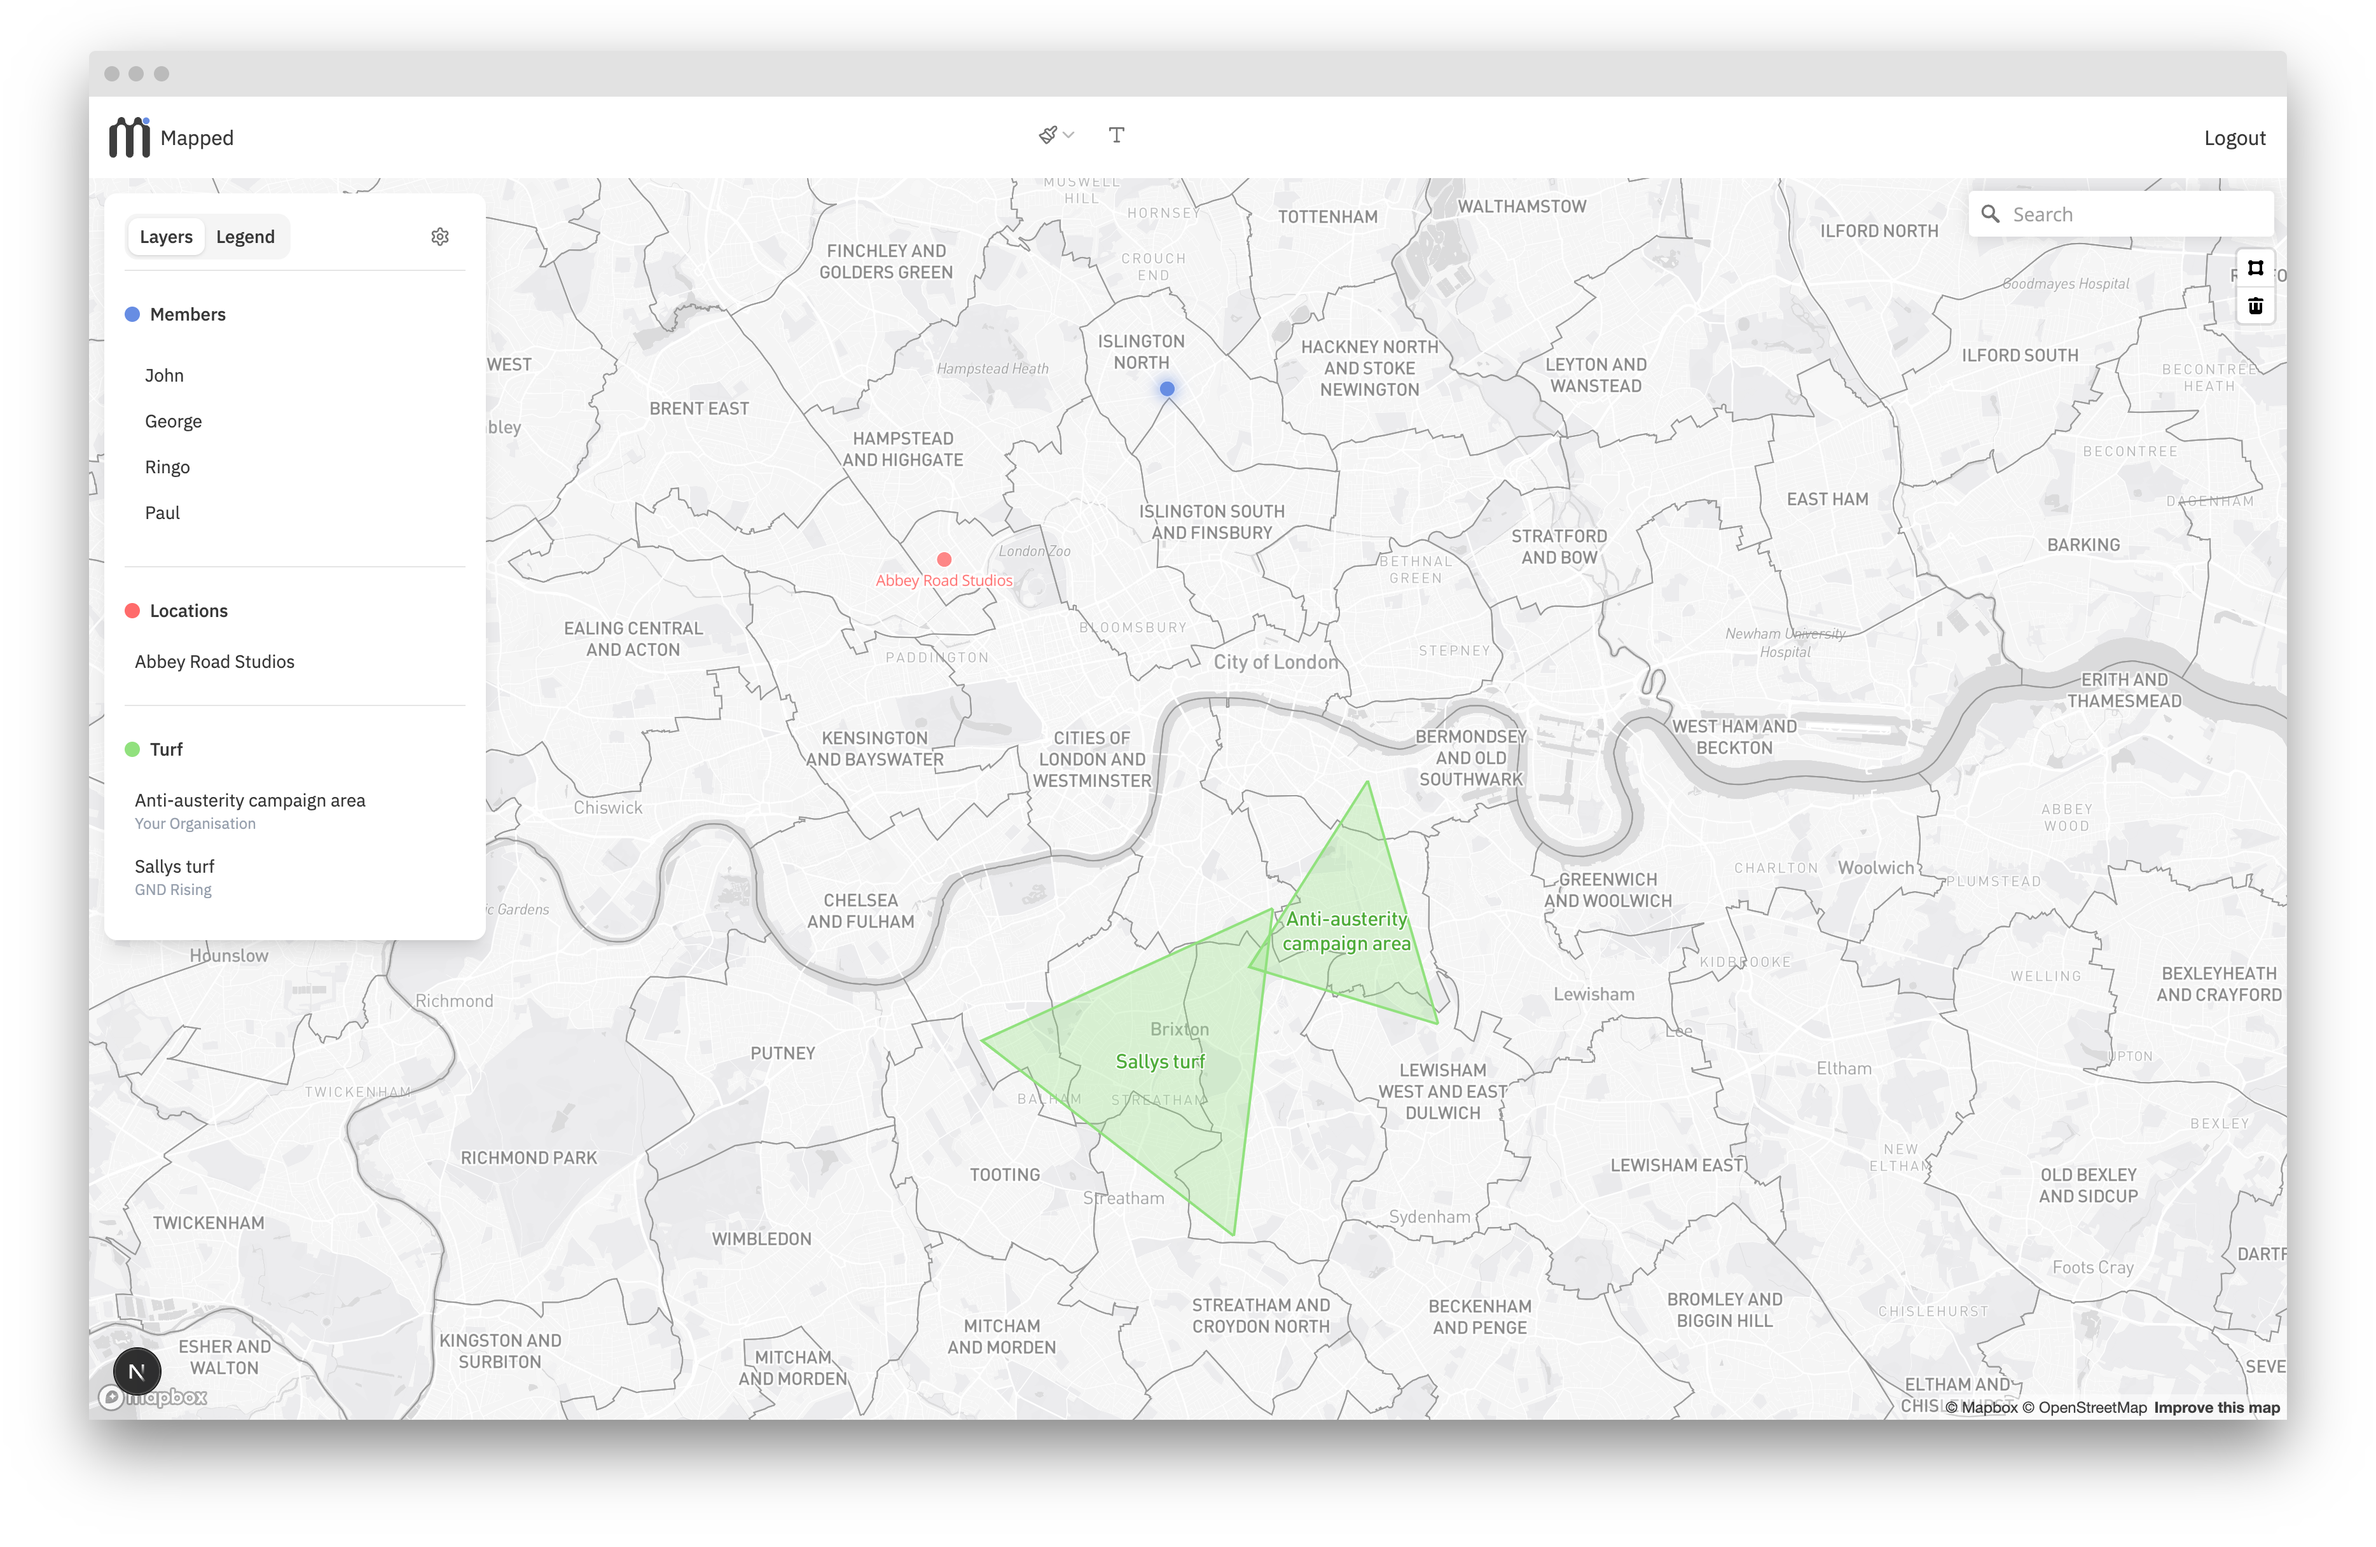
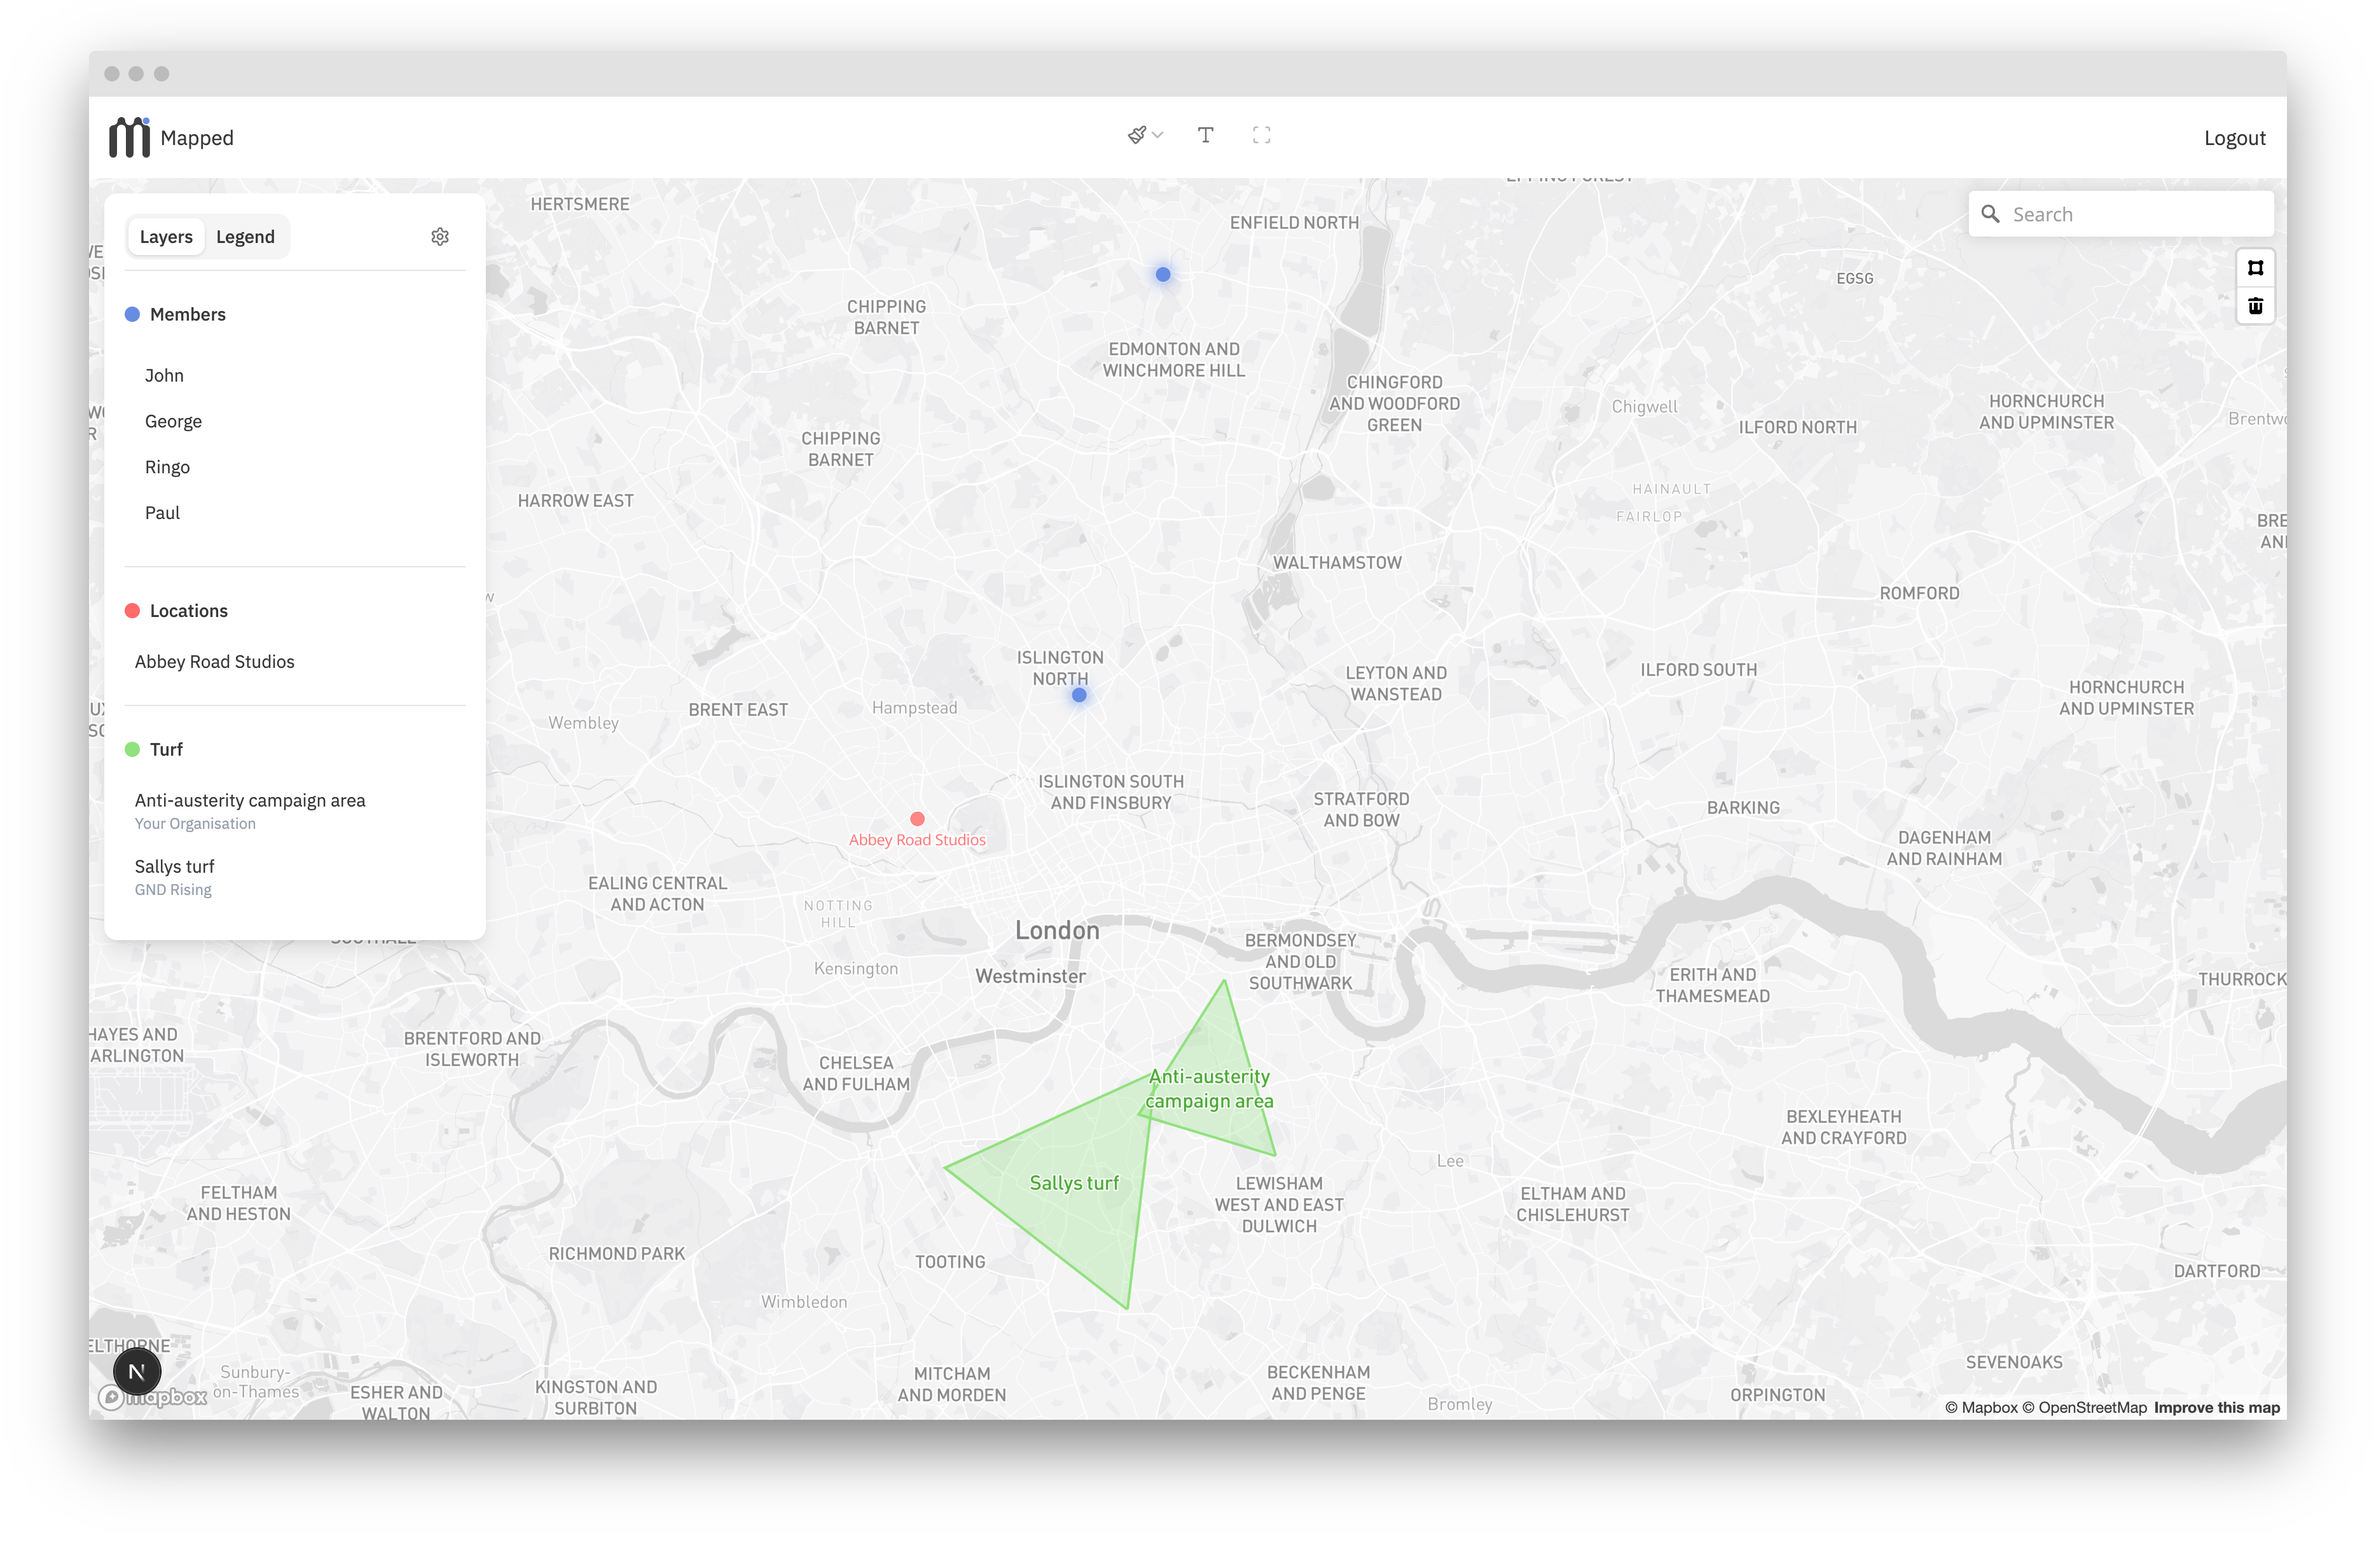
nav

diff --git a/src/app/(private)/map/components/Choropleth.tsx b/src/app/(private)/map/components/Choropleth.tsx
@@ -37,46 +37,50 @@ export default function Choropleth({
       />
 
       {/* Line Layer */}
-      <Layer
-        id={`${sourceId}-line`}
-        source={sourceId}
-        source-layer={layerId}
-        type="line"
-        paint={{
-          "line-color": "#999",
-          "line-width": 1,
-        }}
-      />
+      {mapConfig.showBoundaryOutline && (
+        <Layer
+          id={`${sourceId}-line`}
+          source={sourceId}
+          source-layer={layerId}
+          type="line"
+          paint={{
+            "line-color": "#999",
+            "line-width": 1,
+          }}
+        />
+      )}
 
       {/* Symbol Layer (Labels) */}
       {mapConfig.showLabels && (
-      <Layer
-        id={`${sourceId}-labels`}
-        source={sourceId}
-        source-layer={layerId}
-        type="symbol"
-        layout={{
-          "symbol-placement": "point",
-          "text-field": ["get", featureNameProperty],
-          "text-size": 14,
-          "text-anchor": "center",
-          "text-allow-overlap": false,
-          "symbol-spacing": 100,
-          "text-max-width": 8,
-          "text-padding": 30,
-          "text-transform": "uppercase",
-          "text-font": ["DIN Pro Medium", "Arial Unicode MS Bold"],
-        }}
-        paint={{
-          "text-color": mapConfig.mapStyle.textColor,
-          "text-opacity": [
-            "interpolate",
-            ["linear"],
-            ["zoom"],
-            8, 0.8,
-            10, 0.8
-          ],
-          "text-halo-color": mapConfig.mapStyle.textHaloColor,
+        <Layer
+          id={`${sourceId}-labels`}
+          source={sourceId}
+          source-layer={layerId}
+          type="symbol"
+          layout={{
+            "symbol-placement": "point",
+            "text-field": ["get", featureNameProperty],
+            "text-size": 14,
+            "text-anchor": "center",
+            "text-allow-overlap": false,
+            "symbol-spacing": 100,
+            "text-max-width": 8,
+            "text-padding": 30,
+            "text-transform": "uppercase",
+            "text-font": ["DIN Pro Medium", "Arial Unicode MS Bold"],
+          }}
+          paint={{
+            "text-color": mapConfig.mapStyle.textColor,
+            "text-opacity": [
+              "interpolate",
+              ["linear"],
+              ["zoom"],
+              8,
+              0.8,
+              10,
+              0.8,
+            ],
+            "text-halo-color": mapConfig.mapStyle.textHaloColor,
             "text-halo-width": 1.5,
           }}
         />

diff --git a/src/app/(private)/map/components/Controls.tsx b/src/app/(private)/map/components/Controls.tsx
@@ -8,7 +8,6 @@ import {
   AreaSetGroupCode,
 } from "@/app/(private)/map/sources";
 import { MAX_COLUMN_KEY } from "@/constants";
-import styles from "./Controls.module.css";
 import {
   Select,
   SelectContent,
@@ -18,16 +17,7 @@ import {
 } from "@/shadcn/components/ui/select";
 import { Separator } from "@/shadcn/components/ui/separator";
 import { Label } from "@/shadcn/components/ui/label";
-import {
-  CornerDownRight,
-  LandPlot,
-  MapPin,
-  Paintbrush,
-  Pin,
-  SquareStack,
-  Type,
-} from "lucide-react";
-import Legend from "./Legend";
+import { CornerDownRight, LandPlot, SquareStack } from "lucide-react";
 import mapStyles, { mapColors } from "@/app/(private)/map/styles";
 import { MapStyle } from "@/app/(private)/map/styles";
 import { Toggle } from "@/shadcn/components/ui/toggle";
@@ -37,22 +27,14 @@ import {
   TabsList,
   TabsTrigger,
 } from "@/shadcn/components/ui/tabs";
-import SearchHistory from "./dataLists/SearchHistory";
-import { useState } from "react";
+
 import { DrawnPolygon, SearchResult } from "@/types";
 import { MapRef } from "react-map-gl/mapbox";
-import MemberList from "./dataLists/MemberList";
 import { MarkerData } from "@/types";
-import TurfHistory from "./dataLists/TurfHistory";
 import MembersControl from "./control/MembersControl";
 import LocationsControl from "./control/LocationsControl";
 import TurfControl from "./control/TurfControl";
-import {
-  Tooltip,
-  TooltipContent,
-  TooltipProvider,
-  TooltipTrigger,
-} from "@/shadcn/components/ui/tooltip";
+
 import SettingsModal from "./SettingsModal";
 
 export class MapConfig {
@@ -63,6 +45,7 @@ export class MapConfig {
   public markersDataSourceId = "634223d3-bc26-48bd-a3f2-58d2b9c62462";
   public mapStyle: MapStyle = mapStyles["light-v11"];
   public showLabels = true;
+  public showBoundaryOutline = false;
   public showMembers = true;
   public showLocations = true;
   public showTurf = true;

diff --git a/src/app/(private)/map/components/MapStyling.tsx b/src/app/(private)/map/components/MapStyling.tsx
@@ -11,7 +11,7 @@ import {
 import { Toggle } from "@/shadcn/components/ui/toggle";
 import { Tooltip } from "@/shadcn/components/ui/tooltip";
 import mapStyles from "../styles";
-import { Paintbrush, Type } from "lucide-react";
+import { Paintbrush, Scan, Type } from "lucide-react";
 import {
   TooltipContent,
   TooltipProvider,
@@ -37,7 +37,7 @@ export function MapStyleSelector({
   dataSources: DataSourcesQuery["dataSources"];
 }) {
   return (
-    <div className="absolute left-1/2 -top-20 -translate-x-1/2 m-3 p-4 z-10 w-[300px] bg-white ">
+    <div className="absolute left-1/2 -top-20 -translate-x-1/2 m-3 p-4 z-10  bg-white ">
       <div className="flex gap-2 items-center">
         <TooltipProvider>
           <Tooltip>
@@ -86,6 +86,29 @@ export function MapStyleSelector({
             </TooltipTrigger>
             <TooltipContent>
               <p>{mapConfig.showLabels ? "Hide" : "Show"} labels</p>
+            </TooltipContent>
+          </Tooltip>
+
+          <Tooltip>
+            <TooltipTrigger asChild>
+              <Toggle
+                pressed={mapConfig.showBoundaryOutline}
+                onPressedChange={(value) =>
+                  onChange({ showBoundaryOutline: value })
+                }
+              >
+                <Scan
+                  className={`w-4 h-4  text-muted-foreground ${
+                    mapConfig.showBoundaryOutline ? "opacity-100" : "opacity-50"
+                  }`}
+                />
+              </Toggle>
+            </TooltipTrigger>
+            <TooltipContent>
+              <p>
+                {mapConfig.showBoundaryOutline ? "Hide" : "Show"} boundary
+                outline
+              </p>
             </TooltipContent>
           </Tooltip>
         </TooltipProvider>

diff --git a/src/components/Navbar.tsx b/src/components/Navbar.tsx
@@ -4,6 +4,7 @@ import { SyntheticEvent, useState } from "react";
 import { useCurrentUser } from "@/shadcn/hooks";
 import { Link } from "./Link";
 import styles from "./Navbar.module.css";
+import { Separator } from "@/shadcn/components/ui/separator";
 
 export default function Navbar() {
   const user = useCurrentUser();
@@ -29,10 +30,25 @@ export default function Navbar() {
 
   return (
     <nav className="flex justify-between items-center p-4 z-1">
-      <Link href="/" className="flex items-center gap-2">
-        <img src="/logo.svg" alt="Mapped" width={32} height={32} />
-        Mapped
-      </Link>
+      <div className="flex items-center gap-2">
+        <Link href="/" className="flex items-center gap-2">
+          <img src="/logo.svg" alt="Mapped" width={32} height={32} />
+          Mapped
+        </Link>
+        <Separator orientation="vertical" />
+        <Link
+          href="/map"
+          className="flex items-center gap-2 text-sm text-muted-foreground"
+        >
+          Map
+        </Link>
+        <Link
+          href="/data-sources"
+          className="flex items-center gap-2 text-sm text-muted-foreground"
+        >
+          Data Sources
+        </Link>
+      </div>
       {user ? (
         <form className="flex gap-2" onSubmit={onSubmitLogout}>
           <button>Logout</button>
